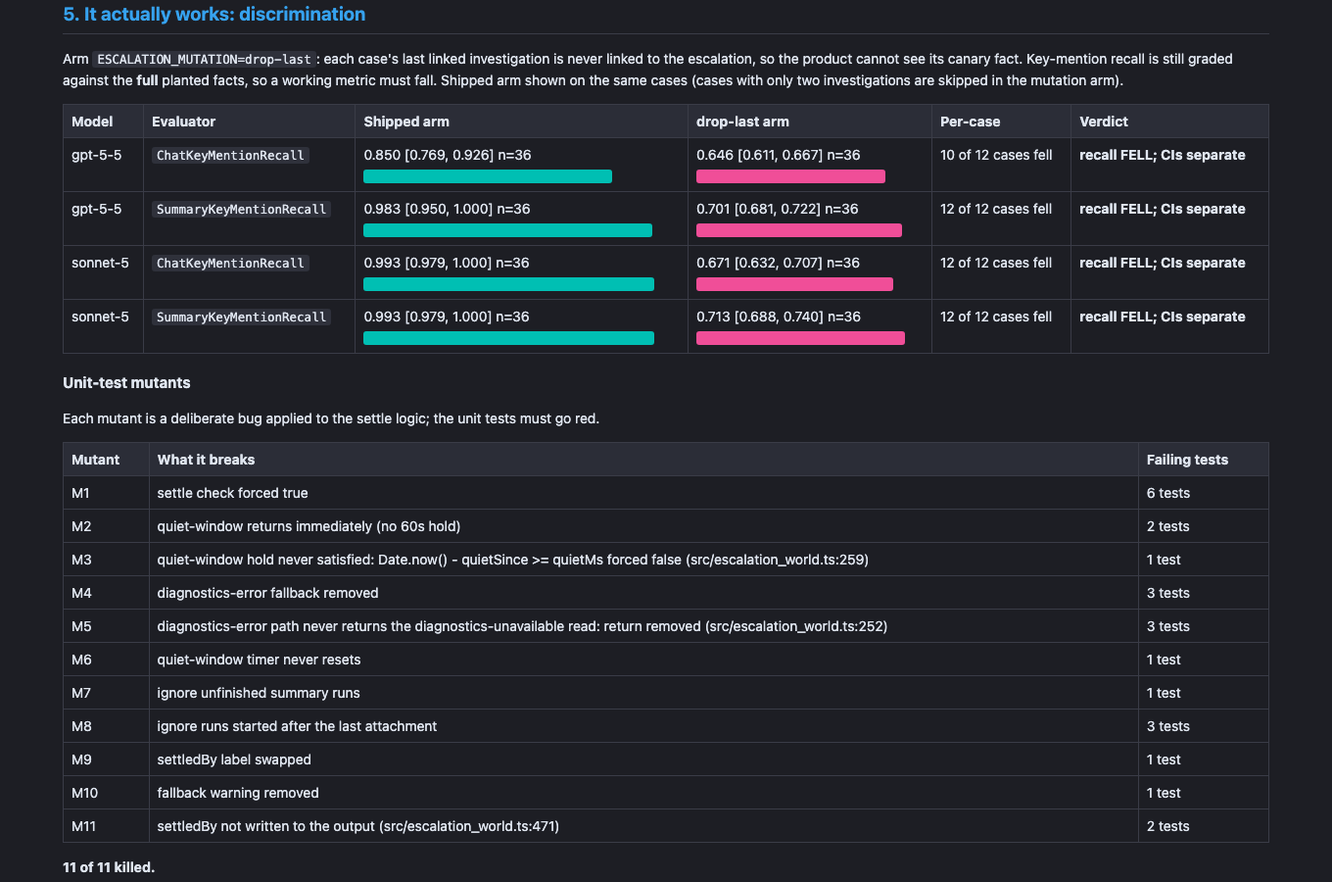
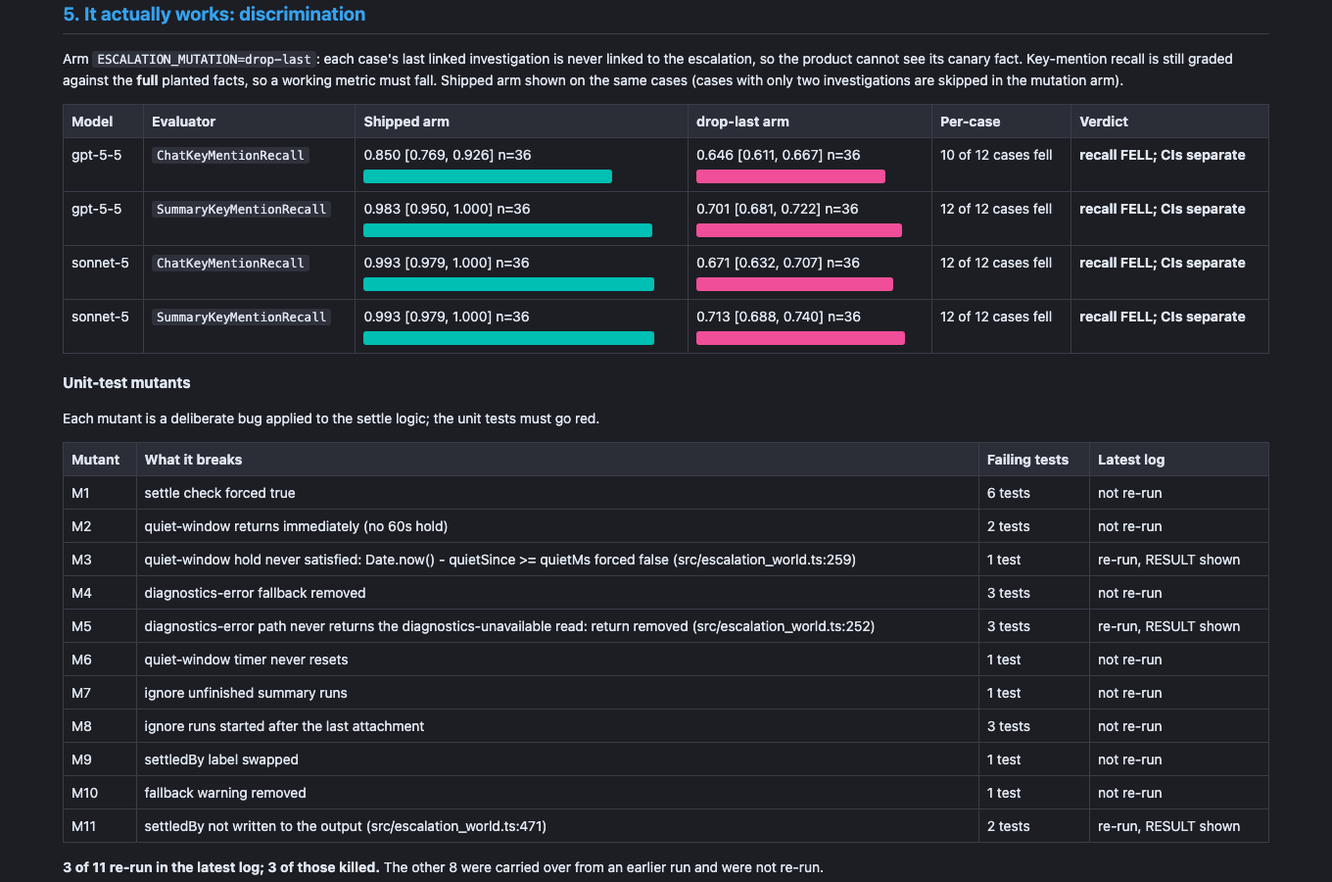
Correct #296648 evidence: 3 of 11 mutants re-run, redact quoted wording

diff --git a/index.html b/index.html
@@ -61,7 +61,7 @@ Known from the escalation context:
 - Ransom notes were dropped in affected shares
 - Filename: **not present in the available context**</div><div class=muted>attribution: model-miss &mdash; answer lacks RESTORE-FILES.txt</div></div></div><div class=qa><div><span class='pill l-model-miss'>model-miss</span> rep 1 &middot; score 0.667 &middot; see per-question attribution</div><div class=qa><div><b>q2</b> What ransom note filename was dropped on the file server?</div><div>expected: <code>RESTORE-FILES.txt.</code></div><div>key(s) absent from answer: <code>RESTORE-FILES.txt</code>; present in this rep's summary: yes</div><div class=quote>answer: The available escalation summary confirms that a ransom note was deployed on **FS01**, but it does **not include the ransom note filename**.
 
-I attempted to query the available Elastic data for FS01 ransom-note file activity, but the accessible indices only exposed the security alert alias and did not return a matching filename.</div><div class=muted>attribution: model-miss &mdash; answer lacks RESTORE-FILES.txt</div></div></div><div class=qa><div><span class='pill l-model-miss'>model-miss</span> rep 2 &middot; score 0.667 &middot; see per-question attribution</div><div class=qa><div><b>q2</b> What ransom note filename was dropped on the file server?</div><div>expected: <code>RESTORE-FILES.txt.</code></div><div>key(s) absent from answer: <code>RESTORE-FILES.txt</code>; present in this rep's summary: yes</div><div class=quote>answer: I couldn’t confirm the ransom note filename from the available search results. The searches returned only agent/tool telemetry and no actual file-server file creation event containing the ransom note name.
+I attempted to query the available Elastic data for FS01 ransom-note file activity, but the accessible indices only exposed the security alert alias and did not return a matching filename.</div><div class=muted>attribution: model-miss &mdash; answer lacks RESTORE-FILES.txt</div></div></div><div class=qa><div><span class='pill l-model-miss'>model-miss</span> rep 2 &middot; score 0.667 &middot; see per-question attribution</div><div class=qa><div><b>q2</b> What ransom note filename was dropped on the file server?</div><div>expected: <code>RESTORE-FILES.txt.</code></div><div>key(s) absent from answer: <code>RESTORE-FILES.txt</code>; present in this rep's summary: yes</div><div class=quote>answer: I couldn’t confirm the ransom note filename from the available search results. The searches returned only [redacted] and no actual file-server file creation event containing the ransom note name.
 
 Known related context so far:
 - Shadow copies were deleted with `vssadmin delete shadows /all`
@@ -108,7 +108,7 @@ It was exfiltrated to:
 
 ```text
 203.0.113.9:/drop/key
-```</div><div class=muted>attribution: model-miss &mdash; answer lacks 4F2A91C7</div></div></div><div class=qa><div><span class='pill l-harness'>harness</span> rep 2 &middot; score 0.750 &middot; see per-question attribution</div><div class=qa><div><b>q1</b> Which pull request was used to modify the deployment workflow?</div><div>expected: <code>PR #4471, merged by svc-ci-bot.</code></div><div>key(s) absent from answer: <code>PR #4471</code>; present in this rep's summary: yes</div><div class=quote>answer: PR **#4471** was used to modify the deployment workflow (`.github/workflows/deploy.yml`).</div><div class=muted>attribution: harness &mdash; the key is present once markdown emphasis is stripped; the grader only matched the raw text</div></div></div></div></details></td><td class=m><details><summary><span class=cell style="background:#3d7a2f">0.92</span> <span class=muted>1/3 rep(s) below best</span></summary><div class=detail-cell><div class=qa><div><span class='pill l-dataset'>dataset</span> rep 1 &middot; score 0.750 &middot; see per-question attribution</div><div class=qa><div><b>q1</b> Which pull request was used to modify the deployment workflow?</div><div>expected: <code>PR #4471, merged by svc-ci-bot.</code></div><div>key(s) absent from answer: <code>PR #4471</code>; present in this rep's summary: no</div><div class=quote>answer: Pull request **#4471** was used to modify the deployment workflow — it was merged by the automated account **svc-ci-bot** and changed `.github/workflows/deploy.yml` on runner **ci-runner-9** to curl and execute a script from `http://203.0.113.9/init.sh`. This was the initial compromise step in the supply-chain attack chain currently tracked in this escalation.</div><div class=muted>attribution: dataset &mdash; answer names #4471; the key PR #4471 is narrower than a correct answer</div></div></div></div></details></td><td class=m><span class=cell style="background:#0b6b4f">1.00</span></td><td class=m><details><summary><span class=cell style="background:#3d7a2f">0.92</span> <span class=muted>1/3 rep(s) below best</span></summary><div class=detail-cell><div class=qa><div><span class='pill l-model-miss'>model-miss</span> rep 1 &middot; score 0.750 &middot; summary settled after the last attachment and still omitted f1</div><div>expected keys: <code>f1=PR #4471, f2=internal-string-utils, f3=edge-gateway-2.14.0.tgz, f4=4F2A91C7</code></div><div>keys found: <code>f2=internal-string-utils, f3=edge-gateway-2.14.0.tgz, f4=4F2A91C7</code></div><ul><li>missed <b>f1</b> key <code>PR #4471</code>: planted in investigation &ldquo;Malicious PR merge on build runner&rdquo;, quoted: <q>PR #4471 merged by user svc-ci-bot modified .github/workflows/deploy.yml on runner ci-runner-9 to curl a script from http://203.0.113.9/init.sh.</q></li></ul><div class=muted>summary read 2026-10-12T02:36:57.794Z; unfinished summary runs at read: 0; runs completed after the last attachment: 2</div><details><summary>summary text as scored</summary><p class=quote>The investigation traces a supply-chain compromise through the CI/CD pipeline. It began when pull request #4471, merged by the automated account svc-ci-bot, modified `.github/workflows/deploy.yml` on runner ci-runner-9 to curl and run a script from http://203.0.113.9/init.sh. Shortly after, a rogue package, internal-string-utils version 99.99.99, appeared in the internal npm registry — published from an external namespace rather than the trusted publisher — with registry logs tracing the upload to API key ci-publish-key-31f2. The compromise then surfaced in build artifacts: build 8842 of edge-gateway-2.14.0.tgz was found to contain a postinstall hook that reaches out to resolve-dns.example at install time. The investigation concluded that the artifact signing key gpg-key-2026-C (id 4F2A91C7) had been exfiltrated from the runner keychain to 198.51.100.99, and that three artifacts were signed with this stolen key after the exfiltration — indicating the attacker used it to make malicious builds appear as trusted, legitimately signed releases.</p></details></div></div></details></td><td class=m><details><summary><span class=cell style="background:#8a6d00">0.84</span> <span class=muted>3/3 rep(s) below best</span></summary><div class=detail-cell><div class=qa><div><span class='pill l-model-miss'>model-miss</span> rep 0 &middot; score 0.875 &middot; the judge could not ground 1 claim(s)</div><div>7 of 8 claims grounded (judge verdict, verbatim below)</div><div class=qa><div>ungrounded claim: <q>The timeline shows a CI/CD supply-chain compromise beginning with PR #4471.</q></div><div class=quote>judge rationale: None</div></div><details><summary>full judge output</summary><pre>✘ The timeline shows a CI/CD supply-chain compromise beginning with PR #4471.
+```</div><div class=muted>attribution: model-miss &mdash; answer lacks 4F2A91C7</div></div></div><div class=qa><div><span class='pill l-harness'>harness</span> rep 2 &middot; score 0.750 &middot; see per-question attribution</div><div class=qa><div><b>q1</b> Which pull request was used to modify the deployment workflow?</div><div>expected: <code>PR #4471, merged by svc-ci-bot.</code></div><div>key(s) absent from answer: <code>PR #4471</code>; present in this rep's summary: yes</div><div class=quote>answer: PR **#4471** was used to modify the deployment workflow (`.github/workflows/deploy.yml`).</div><div class=muted>attribution: harness &mdash; the key is present once markdown emphasis is stripped; the grader only matched the raw text</div></div></div></div></details></td><td class=m><details><summary><span class=cell style="background:#3d7a2f">0.92</span> <span class=muted>1/3 rep(s) below best</span></summary><div class=detail-cell><div class=qa><div><span class='pill l-dataset'>dataset</span> rep 1 &middot; score 0.750 &middot; see per-question attribution</div><div class=qa><div><b>q1</b> Which pull request was used to modify the deployment workflow?</div><div>expected: <code>PR #4471, merged by svc-ci-bot.</code></div><div>key(s) absent from answer: <code>PR #4471</code>; present in this rep's summary: no</div><div class=quote>answer: Pull request **#4471** was used to modify the deployment workflow — it was merged by the automated account **svc-ci-bot** and changed `.github/workflows/deploy.yml` on runner **ci-runner-9** to curl and execute a script from `http://203.0.113.9/init.sh`. This was the initial compromise step in the supply-chain attack chain currently tracked in this escalation.</div><div class=muted>attribution: dataset &mdash; text names #4471; the key PR #4471 is narrower than a correct answer</div></div></div></div></details></td><td class=m><span class=cell style="background:#0b6b4f">1.00</span></td><td class=m><details><summary><span class=cell style="background:#3d7a2f">0.92</span> <span class=muted>1/3 rep(s) below best</span></summary><div class=detail-cell><div class=qa><div><span class='pill l-dataset'>dataset</span> rep 1 &middot; score 0.750 &middot; f1: text names #4471; the key PR #4471 is narrower than a correct answer</div><div>expected keys: <code>f1=PR #4471, f2=internal-string-utils, f3=edge-gateway-2.14.0.tgz, f4=4F2A91C7</code></div><div>keys found: <code>f2=internal-string-utils, f3=edge-gateway-2.14.0.tgz, f4=4F2A91C7</code></div><ul><li>missed <b>f1</b> key <code>PR #4471</code>: planted in investigation &ldquo;Malicious PR merge on build runner&rdquo;, quoted: <q>PR #4471 merged by user svc-ci-bot modified .github/workflows/deploy.yml on runner ci-runner-9 to curl a script from http://203.0.113.9/init.sh.</q></li></ul><div class=muted>summary read 2026-10-12T02:36:57.794Z; unfinished summary runs at read: 0; runs completed after the last attachment: 2</div><details><summary>summary text as scored</summary><p class=quote>The investigation traces a supply-chain compromise through the CI/CD pipeline. It began when pull request #4471, merged by the automated account svc-ci-bot, modified `.github/workflows/deploy.yml` on runner ci-runner-9 to curl and run a script from http://203.0.113.9/init.sh. Shortly after, a rogue package, internal-string-utils version 99.99.99, appeared in the internal npm registry — published from an external namespace rather than the trusted publisher — with registry logs tracing the upload to API key ci-publish-key-31f2. The compromise then surfaced in build artifacts: build 8842 of edge-gateway-2.14.0.tgz was found to contain a postinstall hook that reaches out to resolve-dns.example at install time. The investigation concluded that the artifact signing key gpg-key-2026-C (id 4F2A91C7) had been exfiltrated from the runner keychain to 198.51.100.99, and that three artifacts were signed with this stolen key after the exfiltration — indicating the attacker used it to make malicious builds appear as trusted, legitimately signed releases.</p></details></div></div></details></td><td class=m><details><summary><span class=cell style="background:#8a6d00">0.84</span> <span class=muted>3/3 rep(s) below best</span></summary><div class=detail-cell><div class=qa><div><span class='pill l-model-miss'>model-miss</span> rep 0 &middot; score 0.875 &middot; the judge could not ground 1 claim(s)</div><div>7 of 8 claims grounded (judge verdict, verbatim below)</div><div class=qa><div>ungrounded claim: <q>The timeline shows a CI/CD supply-chain compromise beginning with PR #4471.</q></div><div class=quote>judge rationale: None</div></div><details><summary>full judge output</summary><pre>✘ The timeline shows a CI/CD supply-chain compromise beginning with PR #4471.
 ✔ PR #4471 was merged by svc-ci-bot.
 ✔ PR #4471 changed .github/workflows/deploy.yml on ci-runner-9 to curl a script from http://203.0.113.9/init.sh.
 ✔ An untrusted internal-string-utils version 99.99.99 appeared in the internal npm registry.
@@ -380,8 +380,8 @@ The receiving account was drained within **20 minutes** after the wire was appro
 ✘ The RMM session created the IntelSync scheduled task to load the DLL hourly as SYSTEM.
 ✔ The final investigation found the same relay on six other laptops.
 ✔ FIN-LT-02 was the first of the other laptops observed.</pre></details></div></div></details></td><td class=m><span class=cell style="background:#0b6b4f">1.00</span></td></tr></table></div>
-<h2>4. Every score below best explains itself</h2><ul><li><span class='pill l-model-miss'>model-miss</span> The model under test produced the wrong or incomplete output while the harness delivered the right inputs.</li><li><span class='pill l-harness'>harness</span> The scorer or test plumbing rejected or lost a correct output.</li><li><span class='pill l-dataset'>dataset</span> The expected key is narrower than a correct answer; the fixture, not the model, is strict.</li><li><span class='pill l-unverified'>unverified</span> The measurement itself is not trusted (e.g. summary read before the workflow settled).</li><li><span class='pill l-unknown'>unknown</span> The cause is not established from the recorded data.</li></ul><table><tr><th>Model</th><th><span class='pill l-model-miss'>model-miss</span></th><th><span class='pill l-harness'>harness</span></th><th><span class='pill l-dataset'>dataset</span></th><th><span class='pill l-unverified'>unverified</span></th><th><span class='pill l-unknown'>unknown</span></th><th>scores below best</th></tr><tr><td>gpt-5-5</td><td>22</td><td>1</td><td>0</td><td>0</td><td>1</td><td><b>24</b></td></tr><tr><td>sonnet-5</td><td>31</td><td>4</td><td>1</td><td>0</td><td>0</td><td><b>36</b></td></tr></table><p><b>unknown: 1</b> of 60 scores below best (gpt-5-5, sonnet-5 run validity: attempt-1 valid). Unknown is reported, not hidden.</p><p class=muted>ClaimGrounding is an LLM judge (gemini-3-1-pro). Many of its misses flag inferential connective claims (purpose, intent, causal order) that the investigations do not state outright; they are model-miss by the judge rule and are not relabelled.</p><p class=muted>Mutation arm: the gpt-5-5 cell needed one harness retry (attempt 1 hit the 10-minute no-summary timeout; attempt 2 completed all 12 cases). Scores shown are from the completed execution.</p><p class=muted>A gpt-5-5 chat round (case-07, rep 1) returned HTTP 400 from the chat API; it is labelled unknown, not model-miss and not harness.</p><p class=muted>Earlier-baseline runs predate the summary-settle fix: the gpt-5-5 gain on SummaryKeyMentionRecall mixes that measurement fix with model behaviour.</p>
-<h2>5. It actually works: discrimination</h2><p>Arm <code>ESCALATION_MUTATION=drop-last</code>: each case's last linked investigation is never linked to the escalation, so the product cannot see its canary fact. Key-mention recall is still graded against the <b>full</b> planted facts, so a working metric must fall. Shipped arm shown on the same cases (cases with only two investigations are skipped in the mutation arm).</p><table><tr><th>Model</th><th>Evaluator</th><th>Shipped arm</th><th>drop-last arm</th><th>Per-case</th><th>Verdict</th></tr><tr><td>gpt-5-5</td><td><code>ChatKeyMentionRecall</code></td><td>0.850 [0.769, 0.926] n=36<br><span class=bar style='background:#00bfb3;width:254px'></span></td><td>0.646 [0.611, 0.667] n=36<br><span class=bar style='background:#f04e98;width:193px'></span></td><td>10 of 12 cases fell</td><td><b>recall FELL; CIs separate</b></td></tr><tr><td>gpt-5-5</td><td><code>SummaryKeyMentionRecall</code></td><td>0.983 [0.950, 1.000] n=36<br><span class=bar style='background:#00bfb3;width:295px'></span></td><td>0.701 [0.681, 0.722] n=36<br><span class=bar style='background:#f04e98;width:210px'></span></td><td>12 of 12 cases fell</td><td><b>recall FELL; CIs separate</b></td></tr><tr><td>sonnet-5</td><td><code>ChatKeyMentionRecall</code></td><td>0.993 [0.979, 1.000] n=36<br><span class=bar style='background:#00bfb3;width:297px'></span></td><td>0.671 [0.632, 0.707] n=36<br><span class=bar style='background:#f04e98;width:201px'></span></td><td>12 of 12 cases fell</td><td><b>recall FELL; CIs separate</b></td></tr><tr><td>sonnet-5</td><td><code>SummaryKeyMentionRecall</code></td><td>0.993 [0.979, 1.000] n=36<br><span class=bar style='background:#00bfb3;width:297px'></span></td><td>0.713 [0.688, 0.740] n=36<br><span class=bar style='background:#f04e98;width:213px'></span></td><td>12 of 12 cases fell</td><td><b>recall FELL; CIs separate</b></td></tr></table><h3>Unit-test mutants</h3><p>Each mutant is a deliberate bug applied to the settle logic; the unit tests must go red.</p><table><tr><th>Mutant</th><th>What it breaks</th><th>Failing tests</th></tr><tr><td>M1</td><td>settle check forced true</td><td>6 tests</td></tr><tr><td>M2</td><td>quiet-window returns immediately (no 60s hold)</td><td>2 tests</td></tr><tr><td>M3</td><td>further mutant of the settle logic</td><td>1 test</td></tr><tr><td>M4</td><td>diagnostics-error fallback removed</td><td>3 tests</td></tr><tr><td>M5</td><td>further mutant of the settle logic</td><td>3 tests</td></tr><tr><td>M6</td><td>quiet-window timer never resets</td><td>1 test</td></tr><tr><td>M7</td><td>ignore unfinished summary runs</td><td>1 test</td></tr><tr><td>M8</td><td>ignore runs started after the last attachment</td><td>3 tests</td></tr><tr><td>M9</td><td>settledBy label swapped</td><td>1 test</td></tr><tr><td>M10</td><td>fallback warning removed</td><td>1 test</td></tr><tr><td>M11</td><td>settledBy not written to the output</td><td>1 test</td></tr></table><p><b>11 of 11 killed.</b></p>
+<h2>4. Every score below best explains itself</h2><ul><li><span class='pill l-model-miss'>model-miss</span> The model under test produced the wrong or incomplete output while the harness delivered the right inputs.</li><li><span class='pill l-harness'>harness</span> The scorer or test plumbing rejected or lost a correct output.</li><li><span class='pill l-dataset'>dataset</span> The expected key is narrower than a correct answer; the fixture, not the model, is strict.</li><li><span class='pill l-unverified'>unverified</span> The measurement itself is not trusted (e.g. summary read before the workflow settled).</li><li><span class='pill l-unknown'>unknown</span> The cause is not established from the recorded data.</li></ul><table><tr><th>Model</th><th><span class='pill l-model-miss'>model-miss</span></th><th><span class='pill l-harness'>harness</span></th><th><span class='pill l-dataset'>dataset</span></th><th><span class='pill l-unverified'>unverified</span></th><th><span class='pill l-unknown'>unknown</span></th><th>scores below best</th></tr><tr><td>gpt-5-5</td><td>22</td><td>1</td><td>0</td><td>0</td><td>1</td><td><b>24</b></td></tr><tr><td>sonnet-5</td><td>30</td><td>4</td><td>2</td><td>0</td><td>0</td><td><b>36</b></td></tr></table><p><b>unknown: 1</b> of 60 scores below best (gpt-5-5, sonnet-5 run validity: attempt-1 valid). Unknown is reported, not hidden.</p><p class=muted>ClaimGrounding is an LLM judge (gemini-3-1-pro). Many of its misses flag inferential connective claims (purpose, intent, causal order) that the investigations do not state outright; they are model-miss by the judge rule and are not relabelled.</p><p class=muted>Mutation arm: the gpt-5-5 cell needed one harness retry (attempt 1 hit the 10-minute no-summary timeout; attempt 2 completed all 12 cases). Scores shown are from the completed execution.</p><p class=muted>A gpt-5-5 chat round (case-07, rep 1) returned HTTP 400 from the chat API; it is labelled unknown, not model-miss and not harness.</p><p class=muted>Earlier-baseline runs predate the summary-settle fix: the gpt-5-5 gain on SummaryKeyMentionRecall mixes that measurement fix with model behaviour.</p><p class=muted>One quoted model answer has a phrase replaced with [redacted] for public wording; the score and attribution are unchanged.</p><p class=muted>Unit-test mutants: only M3, M5 and M11 were re-run in the latest log (RESULT lines shown). The other eight are carried over from an earlier run and are not re-run here.</p>
+<h2>5. It actually works: discrimination</h2><p>Arm <code>ESCALATION_MUTATION=drop-last</code>: each case's last linked investigation is never linked to the escalation, so the product cannot see its canary fact. Key-mention recall is still graded against the <b>full</b> planted facts, so a working metric must fall. Shipped arm shown on the same cases (cases with only two investigations are skipped in the mutation arm).</p><table><tr><th>Model</th><th>Evaluator</th><th>Shipped arm</th><th>drop-last arm</th><th>Per-case</th><th>Verdict</th></tr><tr><td>gpt-5-5</td><td><code>ChatKeyMentionRecall</code></td><td>0.850 [0.769, 0.926] n=36<br><span class=bar style='background:#00bfb3;width:254px'></span></td><td>0.646 [0.611, 0.667] n=36<br><span class=bar style='background:#f04e98;width:193px'></span></td><td>10 of 12 cases fell</td><td><b>recall FELL; CIs separate</b></td></tr><tr><td>gpt-5-5</td><td><code>SummaryKeyMentionRecall</code></td><td>0.983 [0.950, 1.000] n=36<br><span class=bar style='background:#00bfb3;width:295px'></span></td><td>0.701 [0.681, 0.722] n=36<br><span class=bar style='background:#f04e98;width:210px'></span></td><td>12 of 12 cases fell</td><td><b>recall FELL; CIs separate</b></td></tr><tr><td>sonnet-5</td><td><code>ChatKeyMentionRecall</code></td><td>0.993 [0.979, 1.000] n=36<br><span class=bar style='background:#00bfb3;width:297px'></span></td><td>0.671 [0.632, 0.707] n=36<br><span class=bar style='background:#f04e98;width:201px'></span></td><td>12 of 12 cases fell</td><td><b>recall FELL; CIs separate</b></td></tr><tr><td>sonnet-5</td><td><code>SummaryKeyMentionRecall</code></td><td>0.993 [0.979, 1.000] n=36<br><span class=bar style='background:#00bfb3;width:297px'></span></td><td>0.713 [0.688, 0.740] n=36<br><span class=bar style='background:#f04e98;width:213px'></span></td><td>12 of 12 cases fell</td><td><b>recall FELL; CIs separate</b></td></tr></table><h3>Unit-test mutants</h3><p>Each mutant is a deliberate bug applied to the settle logic; the unit tests must go red.</p><table><tr><th>Mutant</th><th>What it breaks</th><th>Failing tests</th><th>Latest log</th></tr><tr><td>M1</td><td>settle check forced true</td><td>6 tests</td><td>not re-run</td></tr><tr><td>M2</td><td>quiet-window returns immediately (no 60s hold)</td><td>2 tests</td><td>not re-run</td></tr><tr><td>M3</td><td>quiet-window hold never satisfied: Date.now() - quietSince &gt;= quietMs forced false (src/escalation_world.ts:259)</td><td>1 test</td><td>re-run, RESULT shown</td></tr><tr><td>M4</td><td>diagnostics-error fallback removed</td><td>3 tests</td><td>not re-run</td></tr><tr><td>M5</td><td>diagnostics-error path never returns the diagnostics-unavailable read: return removed (src/escalation_world.ts:252)</td><td>3 tests</td><td>re-run, RESULT shown</td></tr><tr><td>M6</td><td>quiet-window timer never resets</td><td>1 test</td><td>not re-run</td></tr><tr><td>M7</td><td>ignore unfinished summary runs</td><td>1 test</td><td>not re-run</td></tr><tr><td>M8</td><td>ignore runs started after the last attachment</td><td>3 tests</td><td>not re-run</td></tr><tr><td>M9</td><td>settledBy label swapped</td><td>1 test</td><td>not re-run</td></tr><tr><td>M10</td><td>fallback warning removed</td><td>1 test</td><td>not re-run</td></tr><tr><td>M11</td><td>settledBy not written to the output (src/escalation_world.ts:471)</td><td>2 tests</td><td>re-run, RESULT shown</td></tr></table><p><b>3 of 11 re-run in the latest log; 3 of those killed.</b> The other 8 were carried over from an earlier run and were not re-run.</p>
 <h2>6. Stats</h2><p class=muted>95% CI by cluster bootstrap over cases (10,000 resamples); repetitions of one case are not treated as independent. Where CIs overlap no difference is claimed.</p><table><tr><th>Evaluator</th><th>gpt-5-5 mean [95% CI]</th><th>sonnet-5 mean [95% CI]</th><th>Between models</th><th>Earlier baseline (before the summary-settle fix)</th></tr><tr><td><code>UnsupportedNumericSpecifics</code></td><td>0.000 <span class=muted>[0.000, 0.000] n=48 (16 cases)</span></td><td>0.083 <span class=muted>[0.000, 0.229] n=48 (16 cases)</span></td><td>CIs overlap: no difference claimed</td><td class=muted>gpt-5-5: 0.042 [0.000, 0.104] n=48 (overlaps current)<br>sonnet-5: 0.104 [0.000, 0.250] n=48 (overlaps current)</td></tr><tr><td><code>ChatKeyMentionRecall</code></td><td>0.887 <span class=muted>[0.816, 0.951] n=48 (16 cases)</span></td><td>0.995 <span class=muted>[0.984, 1.000] n=48 (16 cases)</span></td><td>CIs separate</td><td class=muted>gpt-5-5: 0.968 [0.937, 0.996] n=48 (overlaps current)<br>sonnet-5: 0.995 [0.984, 1.000] n=48 (overlaps current)</td></tr><tr><td><code>SummaryKeyMentionRecall</code></td><td>0.988 <span class=muted>[0.962, 1.000] n=48 (16 cases)</span></td><td>0.995 <span class=muted>[0.984, 1.000] n=48 (16 cases)</span></td><td>CIs overlap: no difference claimed</td><td class=muted>gpt-5-5: 0.763 [0.675, 0.847] n=48 (separates from current)<br>sonnet-5: 0.955 [0.906, 0.993] n=48 (overlaps current)</td></tr><tr><td><code>ClaimGrounding</code></td><td>0.981 <span class=muted>[0.957, 1.000] n=48 (16 cases)</span></td><td>0.849 <span class=muted>[0.785, 0.909] n=48 (16 cases)</span></td><td>CIs separate</td><td class=muted>gpt-5-5: 0.945 [0.909, 0.977] n=48 (overlaps current)<br>sonnet-5: 0.838 [0.784, 0.887] n=48 (overlaps current)</td></tr></table>
 <h2>Representative case, recorded</h2><p class=muted>Text recorded from the evaluated run (gpt-5-5, rep 0). No UI screenshots: no UI test covers these screens yet, so none are shown rather than staged.</p><h3>case-16-rogue-rmm &mdash; linked investigations</h3><div class=card><b>Investigation 1: RMM client installed</b><div class=quote>ScreenConnect client installed on HR-LT-19 from an email link; relay host relay-sc.example-rmm.net.</div></div><div class=card><b>Investigation 2: Payload download</b><div class=quote>The RMM session ran certutil -urlcache to fetch beacon.dll into C:\ProgramData\Intel.</div></div><div class=card><b>Investigation 3: Persistence</b><div class=quote>Scheduled task IntelSync was created on HR-LT-19 to load the DLL hourly as SYSTEM.</div></div><div class=card><b>Investigation 4 (last): Spread to other laptops</b><div class=quote>Final investigation: the same relay was seen on 6 other laptops, the first being FIN-LT-02.</div></div><h3>Generated escalation summary (canary fact highlighted)</h3><div class=card><div class=quote>The investigation timeline shows ScreenConnect was installed on HR-LT-19 from an email link using the relay host relay-sc.example-rmm.net. The RMM session used certutil -urlcache to fetch beacon.dll into C:\ProgramData\Intel, then created the IntelSync scheduled task to load the DLL hourly as SYSTEM. The final investigation note states the same relay was seen on six other laptops, with <mark style='background:#fec514;color:#000'>FIN-LT-02</mark> being the first.</div></div><h3>Escalation-context chat</h3><div class=qa><div><b>q1</b> Which relay host did the RMM client connect to?</div><div class=quote>I’ll use the relevant investigation context already captured for this escalation to answer the relay host question.
 

diff --git a/296648/index.html b/296648/index.html
@@ -61,7 +61,7 @@ Known from the escalation context:
 - Ransom notes were dropped in affected shares
 - Filename: **not present in the available context**</div><div class=muted>attribution: model-miss &mdash; answer lacks RESTORE-FILES.txt</div></div></div><div class=qa><div><span class='pill l-model-miss'>model-miss</span> rep 1 &middot; score 0.667 &middot; see per-question attribution</div><div class=qa><div><b>q2</b> What ransom note filename was dropped on the file server?</div><div>expected: <code>RESTORE-FILES.txt.</code></div><div>key(s) absent from answer: <code>RESTORE-FILES.txt</code>; present in this rep's summary: yes</div><div class=quote>answer: The available escalation summary confirms that a ransom note was deployed on **FS01**, but it does **not include the ransom note filename**.
 
-I attempted to query the available Elastic data for FS01 ransom-note file activity, but the accessible indices only exposed the security alert alias and did not return a matching filename.</div><div class=muted>attribution: model-miss &mdash; answer lacks RESTORE-FILES.txt</div></div></div><div class=qa><div><span class='pill l-model-miss'>model-miss</span> rep 2 &middot; score 0.667 &middot; see per-question attribution</div><div class=qa><div><b>q2</b> What ransom note filename was dropped on the file server?</div><div>expected: <code>RESTORE-FILES.txt.</code></div><div>key(s) absent from answer: <code>RESTORE-FILES.txt</code>; present in this rep's summary: yes</div><div class=quote>answer: I couldn’t confirm the ransom note filename from the available search results. The searches returned only agent/tool telemetry and no actual file-server file creation event containing the ransom note name.
+I attempted to query the available Elastic data for FS01 ransom-note file activity, but the accessible indices only exposed the security alert alias and did not return a matching filename.</div><div class=muted>attribution: model-miss &mdash; answer lacks RESTORE-FILES.txt</div></div></div><div class=qa><div><span class='pill l-model-miss'>model-miss</span> rep 2 &middot; score 0.667 &middot; see per-question attribution</div><div class=qa><div><b>q2</b> What ransom note filename was dropped on the file server?</div><div>expected: <code>RESTORE-FILES.txt.</code></div><div>key(s) absent from answer: <code>RESTORE-FILES.txt</code>; present in this rep's summary: yes</div><div class=quote>answer: I couldn’t confirm the ransom note filename from the available search results. The searches returned only [redacted] and no actual file-server file creation event containing the ransom note name.
 
 Known related context so far:
 - Shadow copies were deleted with `vssadmin delete shadows /all`
@@ -380,8 +380,8 @@ The receiving account was drained within **20 minutes** after the wire was appro
 ✘ The RMM session created the IntelSync scheduled task to load the DLL hourly as SYSTEM.
 ✔ The final investigation found the same relay on six other laptops.
 ✔ FIN-LT-02 was the first of the other laptops observed.</pre></details></div></div></details></td><td class=m><span class=cell style="background:#0b6b4f">1.00</span></td></tr></table></div>
-<h2>4. Every score below best explains itself</h2><ul><li><span class='pill l-model-miss'>model-miss</span> The model under test produced the wrong or incomplete output while the harness delivered the right inputs.</li><li><span class='pill l-harness'>harness</span> The scorer or test plumbing rejected or lost a correct output.</li><li><span class='pill l-dataset'>dataset</span> The expected key is narrower than a correct answer; the fixture, not the model, is strict.</li><li><span class='pill l-unverified'>unverified</span> The measurement itself is not trusted (e.g. summary read before the workflow settled).</li><li><span class='pill l-unknown'>unknown</span> The cause is not established from the recorded data.</li></ul><table><tr><th>Model</th><th><span class='pill l-model-miss'>model-miss</span></th><th><span class='pill l-harness'>harness</span></th><th><span class='pill l-dataset'>dataset</span></th><th><span class='pill l-unverified'>unverified</span></th><th><span class='pill l-unknown'>unknown</span></th><th>scores below best</th></tr><tr><td>gpt-5-5</td><td>22</td><td>1</td><td>0</td><td>0</td><td>1</td><td><b>24</b></td></tr><tr><td>sonnet-5</td><td>30</td><td>4</td><td>2</td><td>0</td><td>0</td><td><b>36</b></td></tr></table><p><b>unknown: 1</b> of 60 scores below best (gpt-5-5, sonnet-5 run validity: attempt-1 valid). Unknown is reported, not hidden.</p><p class=muted>ClaimGrounding is an LLM judge (gemini-3-1-pro). Many of its misses flag inferential connective claims (purpose, intent, causal order) that the investigations do not state outright; they are model-miss by the judge rule and are not relabelled.</p><p class=muted>Mutation arm: the gpt-5-5 cell needed one harness retry (attempt 1 hit the 10-minute no-summary timeout; attempt 2 completed all 12 cases). Scores shown are from the completed execution.</p><p class=muted>A gpt-5-5 chat round (case-07, rep 1) returned HTTP 400 from the chat API; it is labelled unknown, not model-miss and not harness.</p><p class=muted>Earlier-baseline runs predate the summary-settle fix: the gpt-5-5 gain on SummaryKeyMentionRecall mixes that measurement fix with model behaviour.</p>
-<h2>5. It actually works: discrimination</h2><p>Arm <code>ESCALATION_MUTATION=drop-last</code>: each case's last linked investigation is never linked to the escalation, so the product cannot see its canary fact. Key-mention recall is still graded against the <b>full</b> planted facts, so a working metric must fall. Shipped arm shown on the same cases (cases with only two investigations are skipped in the mutation arm).</p><table><tr><th>Model</th><th>Evaluator</th><th>Shipped arm</th><th>drop-last arm</th><th>Per-case</th><th>Verdict</th></tr><tr><td>gpt-5-5</td><td><code>ChatKeyMentionRecall</code></td><td>0.850 [0.769, 0.926] n=36<br><span class=bar style='background:#00bfb3;width:254px'></span></td><td>0.646 [0.611, 0.667] n=36<br><span class=bar style='background:#f04e98;width:193px'></span></td><td>10 of 12 cases fell</td><td><b>recall FELL; CIs separate</b></td></tr><tr><td>gpt-5-5</td><td><code>SummaryKeyMentionRecall</code></td><td>0.983 [0.950, 1.000] n=36<br><span class=bar style='background:#00bfb3;width:295px'></span></td><td>0.701 [0.681, 0.722] n=36<br><span class=bar style='background:#f04e98;width:210px'></span></td><td>12 of 12 cases fell</td><td><b>recall FELL; CIs separate</b></td></tr><tr><td>sonnet-5</td><td><code>ChatKeyMentionRecall</code></td><td>0.993 [0.979, 1.000] n=36<br><span class=bar style='background:#00bfb3;width:297px'></span></td><td>0.671 [0.632, 0.707] n=36<br><span class=bar style='background:#f04e98;width:201px'></span></td><td>12 of 12 cases fell</td><td><b>recall FELL; CIs separate</b></td></tr><tr><td>sonnet-5</td><td><code>SummaryKeyMentionRecall</code></td><td>0.993 [0.979, 1.000] n=36<br><span class=bar style='background:#00bfb3;width:297px'></span></td><td>0.713 [0.688, 0.740] n=36<br><span class=bar style='background:#f04e98;width:213px'></span></td><td>12 of 12 cases fell</td><td><b>recall FELL; CIs separate</b></td></tr></table><h3>Unit-test mutants</h3><p>Each mutant is a deliberate bug applied to the settle logic; the unit tests must go red.</p><table><tr><th>Mutant</th><th>What it breaks</th><th>Failing tests</th></tr><tr><td>M1</td><td>settle check forced true</td><td>6 tests</td></tr><tr><td>M2</td><td>quiet-window returns immediately (no 60s hold)</td><td>2 tests</td></tr><tr><td>M3</td><td>quiet-window hold never satisfied: Date.now() - quietSince &gt;= quietMs forced false (src/escalation_world.ts:259)</td><td>1 test</td></tr><tr><td>M4</td><td>diagnostics-error fallback removed</td><td>3 tests</td></tr><tr><td>M5</td><td>diagnostics-error path never returns the diagnostics-unavailable read: return removed (src/escalation_world.ts:252)</td><td>3 tests</td></tr><tr><td>M6</td><td>quiet-window timer never resets</td><td>1 test</td></tr><tr><td>M7</td><td>ignore unfinished summary runs</td><td>1 test</td></tr><tr><td>M8</td><td>ignore runs started after the last attachment</td><td>3 tests</td></tr><tr><td>M9</td><td>settledBy label swapped</td><td>1 test</td></tr><tr><td>M10</td><td>fallback warning removed</td><td>1 test</td></tr><tr><td>M11</td><td>settledBy not written to the output (src/escalation_world.ts:471)</td><td>2 tests</td></tr></table><p><b>11 of 11 killed.</b></p>
+<h2>4. Every score below best explains itself</h2><ul><li><span class='pill l-model-miss'>model-miss</span> The model under test produced the wrong or incomplete output while the harness delivered the right inputs.</li><li><span class='pill l-harness'>harness</span> The scorer or test plumbing rejected or lost a correct output.</li><li><span class='pill l-dataset'>dataset</span> The expected key is narrower than a correct answer; the fixture, not the model, is strict.</li><li><span class='pill l-unverified'>unverified</span> The measurement itself is not trusted (e.g. summary read before the workflow settled).</li><li><span class='pill l-unknown'>unknown</span> The cause is not established from the recorded data.</li></ul><table><tr><th>Model</th><th><span class='pill l-model-miss'>model-miss</span></th><th><span class='pill l-harness'>harness</span></th><th><span class='pill l-dataset'>dataset</span></th><th><span class='pill l-unverified'>unverified</span></th><th><span class='pill l-unknown'>unknown</span></th><th>scores below best</th></tr><tr><td>gpt-5-5</td><td>22</td><td>1</td><td>0</td><td>0</td><td>1</td><td><b>24</b></td></tr><tr><td>sonnet-5</td><td>30</td><td>4</td><td>2</td><td>0</td><td>0</td><td><b>36</b></td></tr></table><p><b>unknown: 1</b> of 60 scores below best (gpt-5-5, sonnet-5 run validity: attempt-1 valid). Unknown is reported, not hidden.</p><p class=muted>ClaimGrounding is an LLM judge (gemini-3-1-pro). Many of its misses flag inferential connective claims (purpose, intent, causal order) that the investigations do not state outright; they are model-miss by the judge rule and are not relabelled.</p><p class=muted>Mutation arm: the gpt-5-5 cell needed one harness retry (attempt 1 hit the 10-minute no-summary timeout; attempt 2 completed all 12 cases). Scores shown are from the completed execution.</p><p class=muted>A gpt-5-5 chat round (case-07, rep 1) returned HTTP 400 from the chat API; it is labelled unknown, not model-miss and not harness.</p><p class=muted>Earlier-baseline runs predate the summary-settle fix: the gpt-5-5 gain on SummaryKeyMentionRecall mixes that measurement fix with model behaviour.</p><p class=muted>One quoted model answer has a phrase replaced with [redacted] for public wording; the score and attribution are unchanged.</p><p class=muted>Unit-test mutants: only M3, M5 and M11 were re-run in the latest log (RESULT lines shown). The other eight are carried over from an earlier run and are not re-run here.</p>
+<h2>5. It actually works: discrimination</h2><p>Arm <code>ESCALATION_MUTATION=drop-last</code>: each case's last linked investigation is never linked to the escalation, so the product cannot see its canary fact. Key-mention recall is still graded against the <b>full</b> planted facts, so a working metric must fall. Shipped arm shown on the same cases (cases with only two investigations are skipped in the mutation arm).</p><table><tr><th>Model</th><th>Evaluator</th><th>Shipped arm</th><th>drop-last arm</th><th>Per-case</th><th>Verdict</th></tr><tr><td>gpt-5-5</td><td><code>ChatKeyMentionRecall</code></td><td>0.850 [0.769, 0.926] n=36<br><span class=bar style='background:#00bfb3;width:254px'></span></td><td>0.646 [0.611, 0.667] n=36<br><span class=bar style='background:#f04e98;width:193px'></span></td><td>10 of 12 cases fell</td><td><b>recall FELL; CIs separate</b></td></tr><tr><td>gpt-5-5</td><td><code>SummaryKeyMentionRecall</code></td><td>0.983 [0.950, 1.000] n=36<br><span class=bar style='background:#00bfb3;width:295px'></span></td><td>0.701 [0.681, 0.722] n=36<br><span class=bar style='background:#f04e98;width:210px'></span></td><td>12 of 12 cases fell</td><td><b>recall FELL; CIs separate</b></td></tr><tr><td>sonnet-5</td><td><code>ChatKeyMentionRecall</code></td><td>0.993 [0.979, 1.000] n=36<br><span class=bar style='background:#00bfb3;width:297px'></span></td><td>0.671 [0.632, 0.707] n=36<br><span class=bar style='background:#f04e98;width:201px'></span></td><td>12 of 12 cases fell</td><td><b>recall FELL; CIs separate</b></td></tr><tr><td>sonnet-5</td><td><code>SummaryKeyMentionRecall</code></td><td>0.993 [0.979, 1.000] n=36<br><span class=bar style='background:#00bfb3;width:297px'></span></td><td>0.713 [0.688, 0.740] n=36<br><span class=bar style='background:#f04e98;width:213px'></span></td><td>12 of 12 cases fell</td><td><b>recall FELL; CIs separate</b></td></tr></table><h3>Unit-test mutants</h3><p>Each mutant is a deliberate bug applied to the settle logic; the unit tests must go red.</p><table><tr><th>Mutant</th><th>What it breaks</th><th>Failing tests</th><th>Latest log</th></tr><tr><td>M1</td><td>settle check forced true</td><td>6 tests</td><td>not re-run</td></tr><tr><td>M2</td><td>quiet-window returns immediately (no 60s hold)</td><td>2 tests</td><td>not re-run</td></tr><tr><td>M3</td><td>quiet-window hold never satisfied: Date.now() - quietSince &gt;= quietMs forced false (src/escalation_world.ts:259)</td><td>1 test</td><td>re-run, RESULT shown</td></tr><tr><td>M4</td><td>diagnostics-error fallback removed</td><td>3 tests</td><td>not re-run</td></tr><tr><td>M5</td><td>diagnostics-error path never returns the diagnostics-unavailable read: return removed (src/escalation_world.ts:252)</td><td>3 tests</td><td>re-run, RESULT shown</td></tr><tr><td>M6</td><td>quiet-window timer never resets</td><td>1 test</td><td>not re-run</td></tr><tr><td>M7</td><td>ignore unfinished summary runs</td><td>1 test</td><td>not re-run</td></tr><tr><td>M8</td><td>ignore runs started after the last attachment</td><td>3 tests</td><td>not re-run</td></tr><tr><td>M9</td><td>settledBy label swapped</td><td>1 test</td><td>not re-run</td></tr><tr><td>M10</td><td>fallback warning removed</td><td>1 test</td><td>not re-run</td></tr><tr><td>M11</td><td>settledBy not written to the output (src/escalation_world.ts:471)</td><td>2 tests</td><td>re-run, RESULT shown</td></tr></table><p><b>3 of 11 re-run in the latest log; 3 of those killed.</b> The other 8 were carried over from an earlier run and were not re-run.</p>
 <h2>6. Stats</h2><p class=muted>95% CI by cluster bootstrap over cases (10,000 resamples); repetitions of one case are not treated as independent. Where CIs overlap no difference is claimed.</p><table><tr><th>Evaluator</th><th>gpt-5-5 mean [95% CI]</th><th>sonnet-5 mean [95% CI]</th><th>Between models</th><th>Earlier baseline (before the summary-settle fix)</th></tr><tr><td><code>UnsupportedNumericSpecifics</code></td><td>0.000 <span class=muted>[0.000, 0.000] n=48 (16 cases)</span></td><td>0.083 <span class=muted>[0.000, 0.229] n=48 (16 cases)</span></td><td>CIs overlap: no difference claimed</td><td class=muted>gpt-5-5: 0.042 [0.000, 0.104] n=48 (overlaps current)<br>sonnet-5: 0.104 [0.000, 0.250] n=48 (overlaps current)</td></tr><tr><td><code>ChatKeyMentionRecall</code></td><td>0.887 <span class=muted>[0.816, 0.951] n=48 (16 cases)</span></td><td>0.995 <span class=muted>[0.984, 1.000] n=48 (16 cases)</span></td><td>CIs separate</td><td class=muted>gpt-5-5: 0.968 [0.937, 0.996] n=48 (overlaps current)<br>sonnet-5: 0.995 [0.984, 1.000] n=48 (overlaps current)</td></tr><tr><td><code>SummaryKeyMentionRecall</code></td><td>0.988 <span class=muted>[0.962, 1.000] n=48 (16 cases)</span></td><td>0.995 <span class=muted>[0.984, 1.000] n=48 (16 cases)</span></td><td>CIs overlap: no difference claimed</td><td class=muted>gpt-5-5: 0.763 [0.675, 0.847] n=48 (separates from current)<br>sonnet-5: 0.955 [0.906, 0.993] n=48 (overlaps current)</td></tr><tr><td><code>ClaimGrounding</code></td><td>0.981 <span class=muted>[0.957, 1.000] n=48 (16 cases)</span></td><td>0.849 <span class=muted>[0.785, 0.909] n=48 (16 cases)</span></td><td>CIs separate</td><td class=muted>gpt-5-5: 0.945 [0.909, 0.977] n=48 (overlaps current)<br>sonnet-5: 0.838 [0.784, 0.887] n=48 (overlaps current)</td></tr></table>
 <h2>Representative case, recorded</h2><p class=muted>Text recorded from the evaluated run (gpt-5-5, rep 0). No UI screenshots: no UI test covers these screens yet, so none are shown rather than staged.</p><h3>case-16-rogue-rmm &mdash; linked investigations</h3><div class=card><b>Investigation 1: RMM client installed</b><div class=quote>ScreenConnect client installed on HR-LT-19 from an email link; relay host relay-sc.example-rmm.net.</div></div><div class=card><b>Investigation 2: Payload download</b><div class=quote>The RMM session ran certutil -urlcache to fetch beacon.dll into C:\ProgramData\Intel.</div></div><div class=card><b>Investigation 3: Persistence</b><div class=quote>Scheduled task IntelSync was created on HR-LT-19 to load the DLL hourly as SYSTEM.</div></div><div class=card><b>Investigation 4 (last): Spread to other laptops</b><div class=quote>Final investigation: the same relay was seen on 6 other laptops, the first being FIN-LT-02.</div></div><h3>Generated escalation summary (canary fact highlighted)</h3><div class=card><div class=quote>The investigation timeline shows ScreenConnect was installed on HR-LT-19 from an email link using the relay host relay-sc.example-rmm.net. The RMM session used certutil -urlcache to fetch beacon.dll into C:\ProgramData\Intel, then created the IntelSync scheduled task to load the DLL hourly as SYSTEM. The final investigation note states the same relay was seen on six other laptops, with <mark style='background:#fec514;color:#000'>FIN-LT-02</mark> being the first.</div></div><h3>Escalation-context chat</h3><div class=qa><div><b>q1</b> Which relay host did the RMM client connect to?</div><div class=quote>I’ll use the relevant investigation context already captured for this escalation to answer the relay host question.
 
